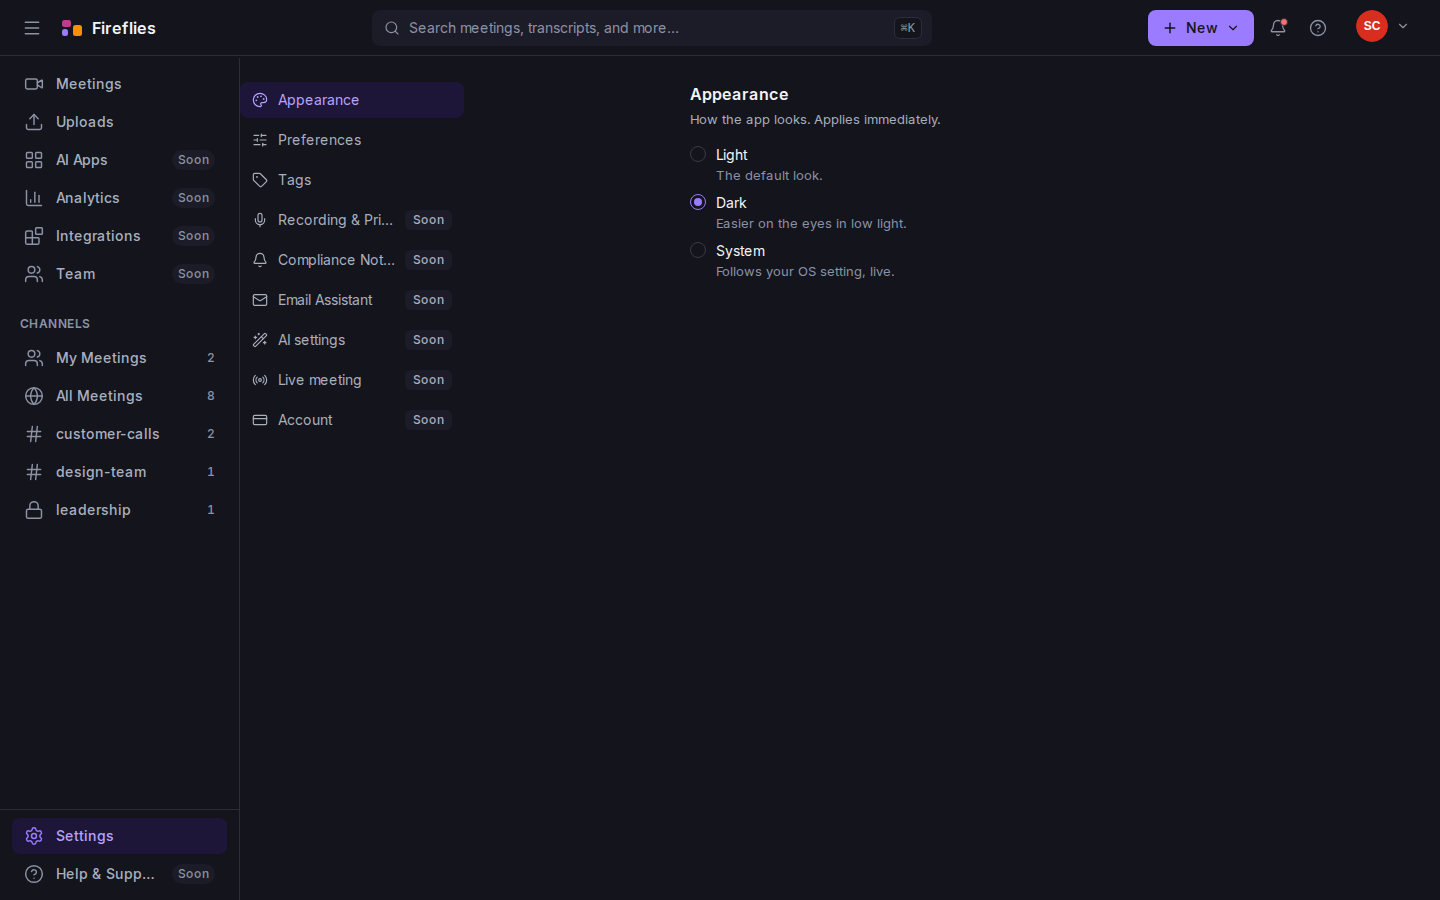
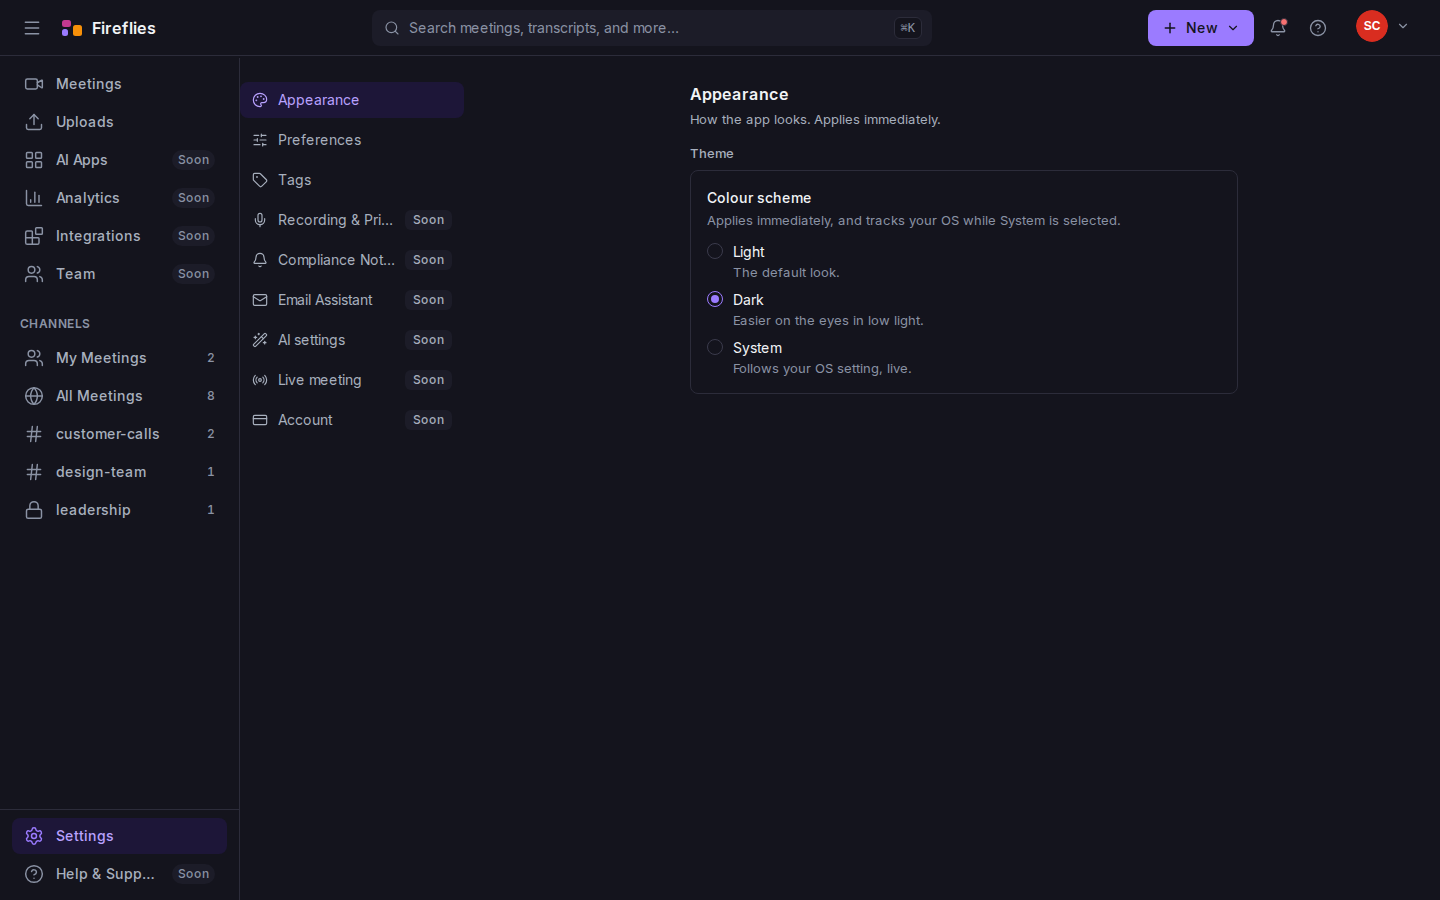
T-46.1: convert the remaining Settings tabs to cards
Converting only Preferences left the two halves of Settings speaking different
visual languages — cards on one tab, a bare radio list on the other — which is
worse than the flat form both started as. Self-inflicted, and invisible while
reading either file: it showed up the moment the two captures sat side by side.

Appearance and the Soon panels now use the same SettingCard/SettingGroup, which
also matches reference 08's structure — section heading, bordered card, title
and description, control beneath.

RadioGroup needed no change either: its `label` is already aria-label-only and
never renders, so the visible title moves into the card with the accessible name
intact. That is the third primitive in a row with the label-outside seam already
present, after Select.hideLabel and Switch.ariaLabel — components/ui/ had
anticipated this composition, which is why the change I had flagged as "largest
remaining, decide before editing" needed no primitive edits at all.

The Soon panels' toggles stay inert. A disabled control in a card still shows
the shape the real thing would take, which is the point of a placeholder that
explains itself (T-30).

Suite green: 548 e2e, 440 pytest, 287 vitest.

Changed region(s): [[0.4688, 0.1556, 0.7812, 0.4356]]

diff --git a/frontend/src/features/placeholders/settings/appearance-panel.tsx b/frontend/src/features/placeholders/settings/appearance-panel.tsx
@@ -12,6 +12,8 @@ import { useThemePref, type Theme } from '@/lib/prefs/app-prefs'
 
 import { RadioGroup } from '@/components/ui/controls'
 
+import { SettingCard, SettingGroup } from './setting-card'
+
 const THEME_OPTIONS: ReadonlyArray<{ value: Theme; label: string; description: string }> = [
   { value: 'light', label: 'Light', description: 'The default look.' },
   { value: 'dark', label: 'Dark', description: 'Easier on the eyes in low light.' },
@@ -28,13 +30,33 @@ export function AppearancePanel() {
         <p className="text-sm text-secondary">How the app looks. Applies immediately.</p>
       </header>
 
-      <RadioGroup
-        label="Theme"
-        value={theme}
-        onValueChange={(value) => setTheme(value as Theme)}
-        options={THEME_OPTIONS}
-        testId="settings-theme"
-      />
+      {/*
+        A card, like Preferences and like the reference (T-46.1 item 10).
+        Converting only one tab left the two halves of Settings speaking
+        different visual languages, which was worse than the flat form both
+        started as — and it was visible the moment the captures sat side by
+        side, not while reading either file.
+
+        `RadioGroup` needs no change: its `label` is already `aria-label` only
+        and never renders, so the visible title moves to the card while the
+        accessible name stays put. Third primitive in a row with that seam
+        already present (`Select.hideLabel`, `Switch.ariaLabel`).
+      */}
+      <SettingGroup title="Theme">
+        <SettingCard
+          title="Colour scheme"
+          description="Applies immediately, and tracks your OS while System is selected."
+          control={
+            <RadioGroup
+              label="Theme"
+              value={theme}
+              onValueChange={(value) => setTheme(value as Theme)}
+              options={THEME_OPTIONS}
+              testId="settings-theme"
+            />
+          }
+        />
+      </SettingGroup>
     </section>
   )
 }

diff --git a/frontend/src/features/placeholders/settings/soon-panel.tsx b/frontend/src/features/placeholders/settings/soon-panel.tsx
@@ -8,6 +8,8 @@
 
 import type { LucideIcon } from 'lucide-react'
 
+import { SettingCard, SettingGroup } from './setting-card'
+
 import { Badge } from '@/components/ui/chip'
 import { Switch } from '@/components/ui/controls'
 
@@ -42,17 +44,28 @@ export function SoonPanel({ tab }: SoonPanelProps) {
         {tab.label.toLowerCase()} for the whole workspace.
       </p>
 
-      <div className="space-y-3">
+      {/*
+        Cards here too, so every Settings tab reads the same. These toggles are
+        deliberately inert — the panel says so above — but a disabled control in
+        a card still shows the shape the real thing would take, which is the
+        point of a placeholder that explains itself (T-30).
+      */}
+      <SettingGroup title={tab.label}>
         {(SAMPLE_TOGGLES[tab.id] ?? []).map((label) => (
-          <Switch
+          <SettingCard
             key={label}
-            checked={false}
-            onCheckedChange={() => undefined}
-            disabled
-            label={label}
+            title={label}
+            trailing={
+              <Switch
+                checked={false}
+                onCheckedChange={() => undefined}
+                disabled
+                ariaLabel={label}
+              />
+            }
           />
         ))}
-      </div>
+      </SettingGroup>
     </section>
   )
 }
